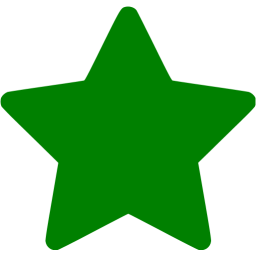
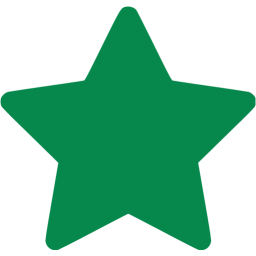
Cambios-Minimos-Estrellas-Verdes-Responsive-AJuste

diff --git a/src/app/css/estilos.css b/src/app/css/estilos.css
@@ -257,6 +257,7 @@ body {
     background-size: 100% 100%;
 }
 
+/*Margenes para el parrafo de la hero, */
 #landing-page-hero p{
     margin-top: 1em;
     margin-bottom: 6em;
@@ -283,7 +284,16 @@ body {
 #contenedor-estrellas-opiniones {
     display: flex;
     flex-direction: column;
+    align-items: center;
+    justify-items: center;
     margin-bottom: 3em;
+}
+
+/*Estilo de las estrellas con la media de las reseñas de los usuarios, estrellas grandes*/
+#estrellas-media-resenyas {
+    height: 3.5em;
+    max-width: 100%;
+    margin-bottom: 0.5em;
 }
 /*Los parrafos de dentro del contenedor padre con las estrellas*/
 #contenedor-estrellas-opiniones>p {
@@ -301,7 +311,7 @@ body {
     max-width: 100%;
     justify-content: center;
     flex-direction: column;
-    padding: 0.8rem 2rem;
+    padding: 0.8rem 1rem;
     text-align: center;
 }
 
@@ -310,12 +320,21 @@ body {
     display: flex;
     flex-wrap: wrap;
     flex-direction: row;
-    max-width: 100%;
+    padding-left: 9%;
+    padding-right: 9%;
     justify-content: center;
+    justify-content: space-between;
 }
 
-#contenedor-cabecera-reseña .parrafo-negrita {
-    margin-right: 1.8em;
+/*Separacion del parrafo con el nombre de cada persona que pone reseña, con las estrellitas puestas a la derecha*/
+#contenedor-cabecera-reseña>div {
+    display: flex;
+    justify-content: center ;
+}
+
+/*Estilo para las estrellas verdes especificas de cada reseña de usuarios*/
+.estrellas-resenya-especifica {
+    height: 1.7em;
 }
 
 /*Estilo contenedor botones deslizables reseñas*/

diff --git a/src/app/index.html b/src/app/index.html
@@ -87,7 +87,7 @@
 <!-- Comienza la sección de reseñas-->
 <section id="seccion-resenyas">
     <div id="contenedor-estrellas-opiniones">
-        <p>5 estrellas</p>
+        <img id="estrellas-media-resenyas" src="images/imagen-5-estrellas.png" alt="imagen 5 estrellas verdes">
         <p class="parrafo-negrita">Las opiniones de nuestros usuarios</p>
     </div>
     <!--Sección panel deslizable y sus botones-->
@@ -99,7 +99,7 @@
                 <p class="parrafo-negrita">Víctor Pérez</p>
             </div>
             <div>
-                <p>5 estrellas</p>
+                <img class="estrellas-resenya-especifica" src="images/imagen-5-estrellas.png" alt="imagen 5 estrellas verdes">
             </div>
         </div>
         <!--Texto reseña persona-->
@@ -109,8 +109,8 @@
     </div>
     <!--Botones para mover deslizables-->
     <div id="contenedor-botones-deslizable-reseñas">
-        <button><</button>
-        <button>></button>
+        <button id="deslizar-izquierda-resenya"><</button>
+        <button id="deslizar-derecha-resenya">></button>
     </div>
 </section>
 <!-- Termina la sección de reseñas-->

diff --git a/src/app/monitorizacion.html b/src/app/monitorizacion.html
@@ -2,7 +2,7 @@
 <html lang="es">
 <head>
     <meta charset="UTF-8">
-    <title>Tu espacio personal</title>
+    <title>Espacio personal</title>
     <link rel="shortcut icon" href="./images/icono-gti-sin-letras.png" />
     <!-- Para que pueda verse bien en movil-->
     <meta name="viewport" content="width=device-width, shrink-to-fit=no, initial-scale=1" />
